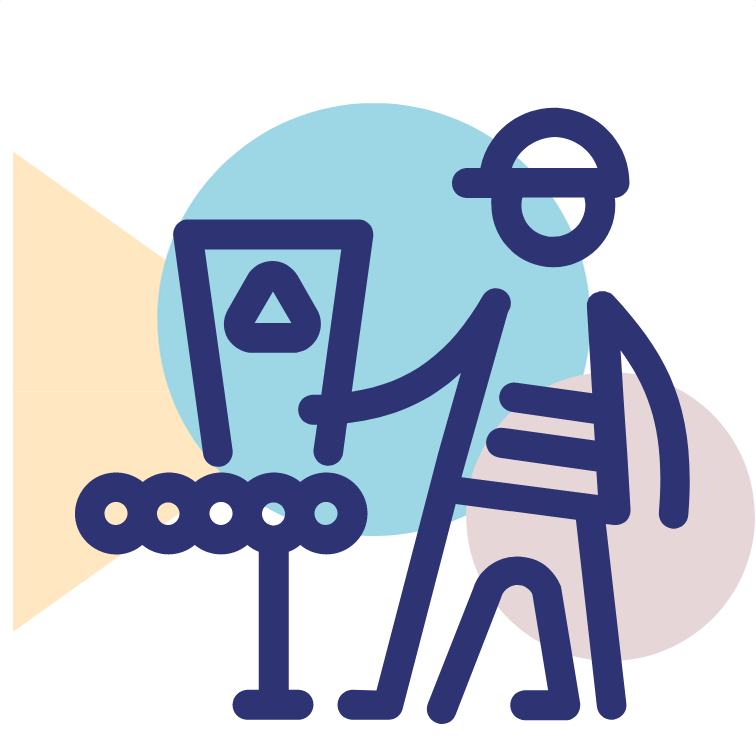
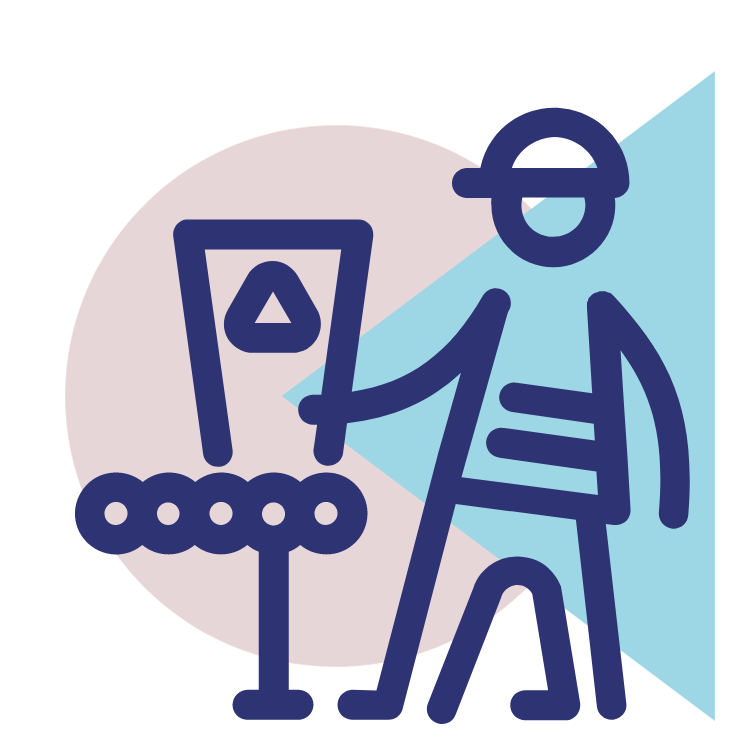
picto bot check and aspect ratios

diff --git a/node/modules/picto/index.js b/node/modules/picto/index.js
@@ -3,22 +3,28 @@ const fs = require('fs');
 const request = require('request');
 const { convert } = require('convert-svg-to-png');
 const path = require('path');
+const botCheck = require('../botCheck');
+
+const imageSize = 756;
 
 const hashCode = s => s.split('').reduce((a,b) => (((a << 5) - a) + b.charCodeAt(0))|0, 0)
 const rand = (min, max) => {
   return Math.floor(Math.random() * (max - min + 1) ) + min;
 }
 
-const getCachedName = (url) => {
+const getCachedName = (url, req) => {
   const hash = hashCode(url);
   const fileTitle = url.split('/')[url.split('/').length - 1].replace('.svg', '');
+  if (botCheck.isBot(req)) {
+    return `${fileTitle}-${hash}-bot.png`;
+  };
   return `${fileTitle}-${hash}.png`;
 }
 
-const checkFileExistance = async (url) => {
+const checkFileExistance = async (url, req) => {
   return new Promise(async (resolve, reject) => {
     if (!url) { resolve(false); }
-    const fileName = getCachedName(url);
+    const fileName = getCachedName(url, req);
     const exists = await fs.existsSync(path.resolve('./pictos/cache', fileName));
     resolve(exists);
   });
@@ -30,8 +36,8 @@ const getSvgFile = async(url) => {
     const file = request.get(url, async (err, file) => {
       const body = file.body.replace(/#.+?;/igm, '#2e3374');
       const svg = await convert(body, {
-        height: 756,
-        width: 756,
+        height: imageSize,
+        width: imageSize,
       });
       const img = Jimp.read(svg);
       resolve(img);
@@ -39,14 +45,20 @@ const getSvgFile = async(url) => {
   });
 }
 
-const compileImage = async (svg, url) => {
+const compileImage = async (svg, url, req) => {
   return new Promise(async (resolve, reject) => {
-    const fileName = getCachedName(url);
+    const fileName = getCachedName(url, req);
     const backgroundCount = 5;
     const imageNumber = rand(1, backgroundCount);
     const backgroundPath = path.resolve('./pictos/backgrounds/', `picto-${imageNumber}.png`);
     let png = await Jimp.read(backgroundPath);
     png = await png.composite(svg, 0, 0);
+
+    if (botCheck.isBot(req)) {
+      const extraHeight = (imageSize/2);
+      const artboard = await new Jimp(imageSize + extraHeight, imageSize, 'white');
+      png = await artboard.composite(png, extraHeight / 2, 0);
+    }
 
     (await png).write(path.resolve('./pictos/cache', fileName));
     const buffer = await png.getBufferAsync(Jimp.MIME_PNG);
@@ -55,7 +67,7 @@ const compileImage = async (svg, url) => {
 }
 
 const servePNG = async (req, res) => {
-  const fileName = getCachedName(req.query.url);
+  let fileName = getCachedName(req.query.url, req);
   const filePath = path.resolve('./pictos/cache', fileName);
   const png = await fs.readFileSync(filePath);
   res.set('Content-Type', 'image/png');
@@ -64,13 +76,14 @@ const servePNG = async (req, res) => {
 
 const generatePNG = async (req, res) => {
   const svg = await getSvgFile(req.query.url);
-  const png = await compileImage(svg, req.query.url);
+  const png = await compileImage(svg, req.query.url, req);
   res.set('Content-Type', 'image/png');
   res.send(png);
 }
 
 module.exports.serve = async (req, res) => {
-  const exists = await checkFileExistance(req.query.url);
+  const exists = await checkFileExistance(req.query.url, req);
+  generatePNG(req,res,);
   exists ? servePNG(req, res) : generatePNG(req, res);
 }
 

diff --git a/node/modules/botCheck/index.js b/node/modules/botCheck/index.js
@@ -1,7 +1,7 @@
 const path = require('path');
 const amp = require(path.resolve('./', 'modules/amp'));
 
-module.exports = (req, res, next) => {
+module.exports.isBot = (req) => {
   var isBotTest = false;
   var botReq = "";
   var botID= ""; //Just so we know why we think it is a bot
@@ -30,12 +30,13 @@ module.exports = (req, res, next) => {
       }
   }
 
+  return isBotTest;
+}
 
-  if (isBotTest == true) {
-    // bot
+module.exports.redirect = (req, res, next, ) => {
+  if (this.isBot(req)) {
     amp.serve(req,res);
   } else {
-    // no bot
     return next();
   }
 

diff --git a/node/modules/amp/index.js b/node/modules/amp/index.js
@@ -88,11 +88,13 @@ module.exports.getData = (opts) => {
   return new Promise(async (resolve, reject) => {
     let url = `${opts.api}/graphql?queryId=${opts.queryId}:1&variables={%22lang%22:%22ET%22,%22path%22:%22${opts.path}%22}`;
     url = decodeURI(url);
+
     request.get(url, (err, response) => {
       let data = {};
       try {
         data = JSON.parse(response.body).data.route || {};
-      } catch (err) {}
+      } catch (err) {
+      }
       
       resolve(data);
     });

diff --git a/node/index.js b/node/index.js
@@ -31,7 +31,7 @@ app.use('/', express.static(`${__dirname}/dist`, {
 app.get('/amp/*', amp.serve);
 app.get('/picto', picto.serve);
 
-app.get('*', botCheck, (req, res, next) => {
+app.get('*', botCheck.redirect, (req, res, next) => {
   res.sendFile(`${__dirname}/dist/index.html`);
 });
 
